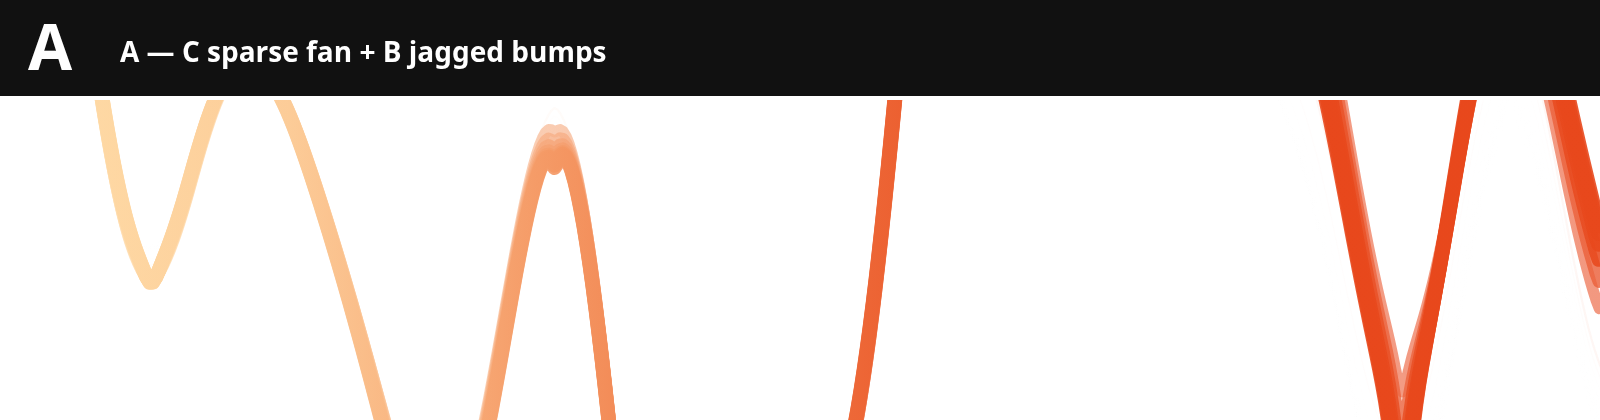
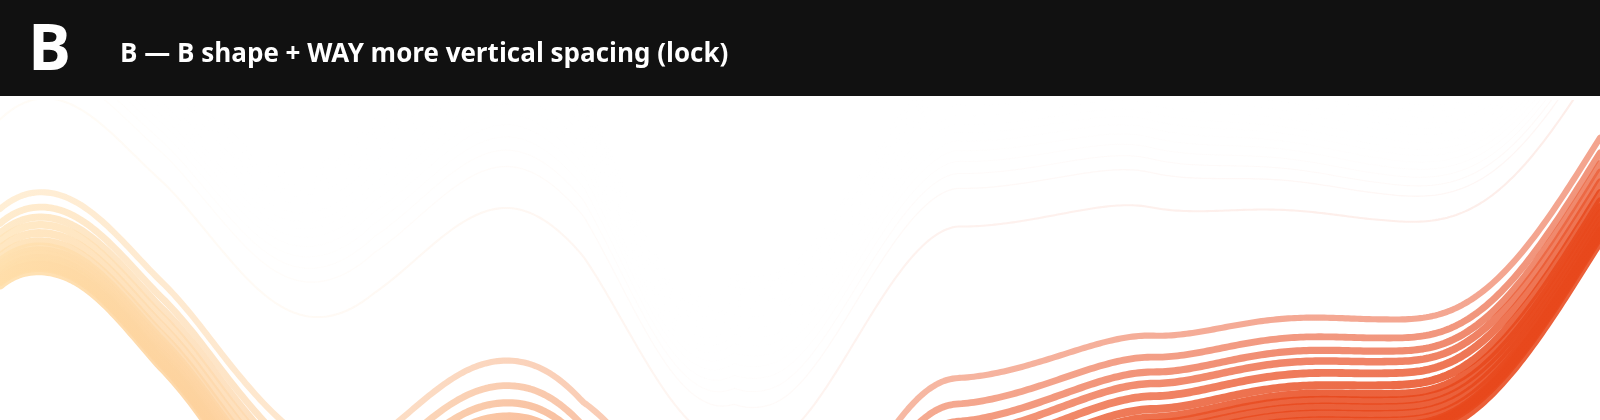
fix(lab): open B Twizzler pack with much larger vertical spacing (#CF-16)
Keep B rolling silhouette; add explicit screen-Y stack driven by depthSpread
so fibers are spaced far apart instead of a tight condensed ribbon.

Changed region(s): [[0.5312, 0.2167, 1.0, 1.0], [0.0, 0.2167, 0.4062, 1.0], [0.0, 0.0619, 0.4688, 0.1857]]

diff --git a/apps/lab/src/twizzler.ts b/apps/lab/src/twizzler.ts
@@ -395,21 +395,21 @@ export function twizzlerMarketingCenterY(xT: number, settings: TwizzlerSettings,
 export function twizzlerMarketingWidth(xT: number, settings: TwizzlerSettings): number {
   const x = Math.max(0, Math.min(1, xT));
   const half = sampleKnots(x, [
-    [0.0, 0.09],
-    [0.15, 0.11],
-    [0.3, 0.14],
-    [0.42, 0.055],
-    [0.55, 0.14],
-    [0.72, 0.34],
-    [0.88, 0.3],
-    [1.0, 0.28],
+    [0.0, 0.14],
+    [0.15, 0.17],
+    [0.3, 0.22],
+    [0.42, 0.1],
+    [0.55, 0.24],
+    [0.72, 0.4],
+    [0.88, 0.38],
+    [1.0, 0.36],
   ]);
-  const ampScale = 0.8 + settings.amplitude * 0.4;
-  // depthSpread opens the ribbon in screen space so the Z stack is not a thin condensed pack.
-  const spreadBoost = 1 + settings.depthSpread * 0.62 * Math.pow(smoothstep(0.32, 1, x), 0.85);
+  const ampScale = 0.85 + settings.amplitude * 0.45;
+  // depthSpread opens the pack vertically; capped so fibers stay mostly on-canvas.
+  const spreadBoost = 1 + settings.depthSpread * 0.7 * Math.pow(smoothstep(0.12, 1, x), 0.7);
   const depthBoost = 1 + (twizzlerDepthScale(x, settings) - 1) * 0.1;
-  const taper = 1 - settings.edgeTaper * 0.12 * (1 - Math.sin(Math.PI * x));
-  return Math.max(0.035, half * ampScale * spreadBoost * depthBoost * taper);
+  const taper = 1 - settings.edgeTaper * 0.08 * (1 - Math.sin(Math.PI * x));
+  return Math.min(0.3, Math.max(0.06, half * ampScale * spreadBoost * depthBoost * taper));
 }
 
 /**
@@ -644,9 +644,9 @@ export function buildTwizzlerLines(
       const organic =
         (twizzlerNoise(c.xT * 3.2 + across * 1.7, time * 0.2, 0.4) - 0.5) * settings.wrinkleStrength * 2.4;
       const braid = across + organic + 0.12 * pinch * Math.sin(fiberTheta + across * 0.9) * (1 - across * across);
-      // Perspective: far fibers compress toward the spine; near fibers take the full fan (reads as Z depth).
-      const zPerspective = 0.22 + 0.78 * nearness;
-      const projected = braid * halfW * (0.16 + 0.84 * face) * zPerspective;
+      // Keep some face projection, but do NOT collapse far fibers into the spine.
+      const zPerspective = 0.7 + 0.3 * nearness;
+      const projected = braid * halfW * (0.2 + 0.8 * face) * zPerspective;
 
       const depth = twizzlerDepthScale(c.xT, settings);
       const depthY = twizzlerDepthYBias(
@@ -664,15 +664,17 @@ export function buildTwizzlerLines(
           0.35 * Math.sin(c.xT * Math.PI * 6.2 + across * 3.1 + time * 0.15)) *
         settings.wrinkleStrength *
         halfW *
-        2.8;
-      // Face-fan alone puts near (+across) downward; overpower it on the right so far drops lowest.
-      const rightEdge = Math.pow(smoothstep(0.4, 1, c.xT), 1.15);
-      const farDownStack = -across * halfW * rightEdge * (0.35 + settings.depthLift * 0.2) * (0.35 + far * 0.4);
-      const faceY = ny * projected * (1 - 0.35 * rightEdge);
-      // Extra Z path divergence: far fibers take a lower parallel route as depth opens.
-      const zLane = far * halfW * (0.04 + 0.1 * rightEdge) * (0.35 + settings.depthSpread * 0.2);
-      const x = c.x + nx * braid * halfW * 0.025 * Math.sin(fiberTheta);
-      const y = c.y + faceY + depthY + pathWobble + farDownStack + zLane;
+        2.2;
+      const rightEdge = Math.pow(smoothstep(0.35, 1, c.xT), 1.1);
+      // Explicit SCREEN-Y stack: fibers spaced vertically by depthSpread (this is the pack open).
+      const verticalOpen = 0.95 + settings.depthSpread * 0.55;
+      const stackY = across * halfW * verticalOpen;
+      // Far fibers still sit lower on the right.
+      const farDownStack = -across * halfW * rightEdge * (0.25 + settings.depthLift * 0.2) * (0.3 + far * 0.5);
+      const faceY = ny * projected * 0.35;
+      const zLane = far * halfW * (0.05 + 0.12 * rightEdge) * (0.4 + settings.depthSpread * 0.25);
+      const x = c.x + nx * braid * halfW * 0.02 * Math.sin(fiberTheta);
+      const y = c.y + faceY + stackY + depthY + pathWobble + farDownStack + zLane;
 
       points.push({ x, y, depth, along: c.xT, nearness });
     }
